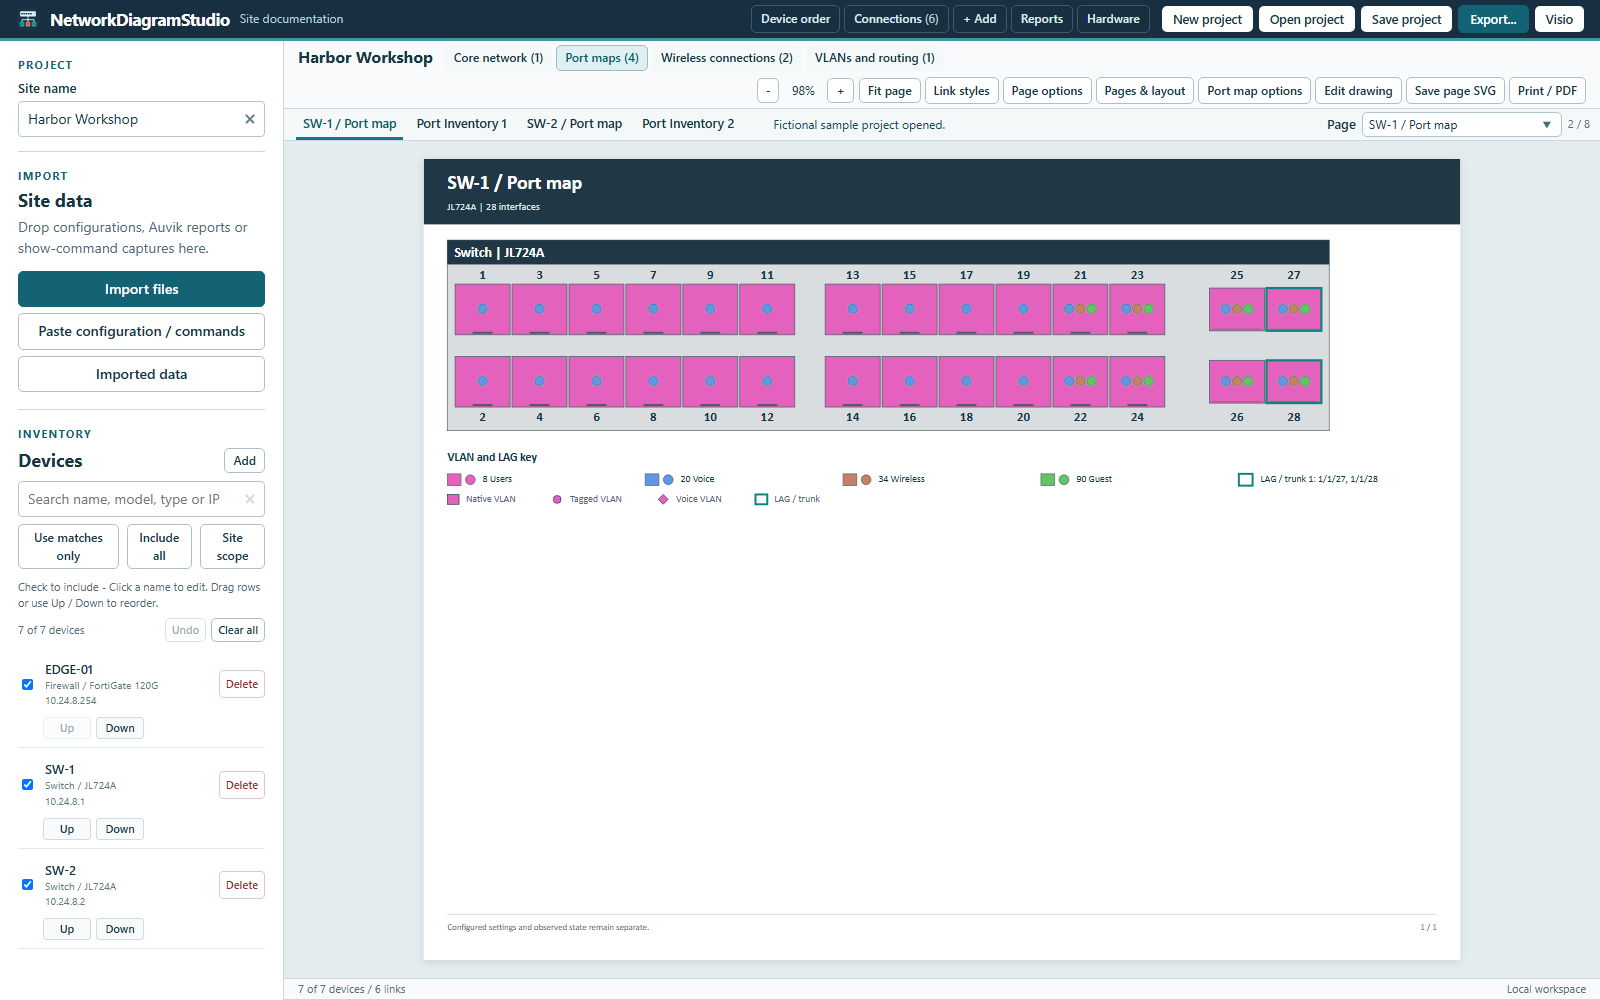
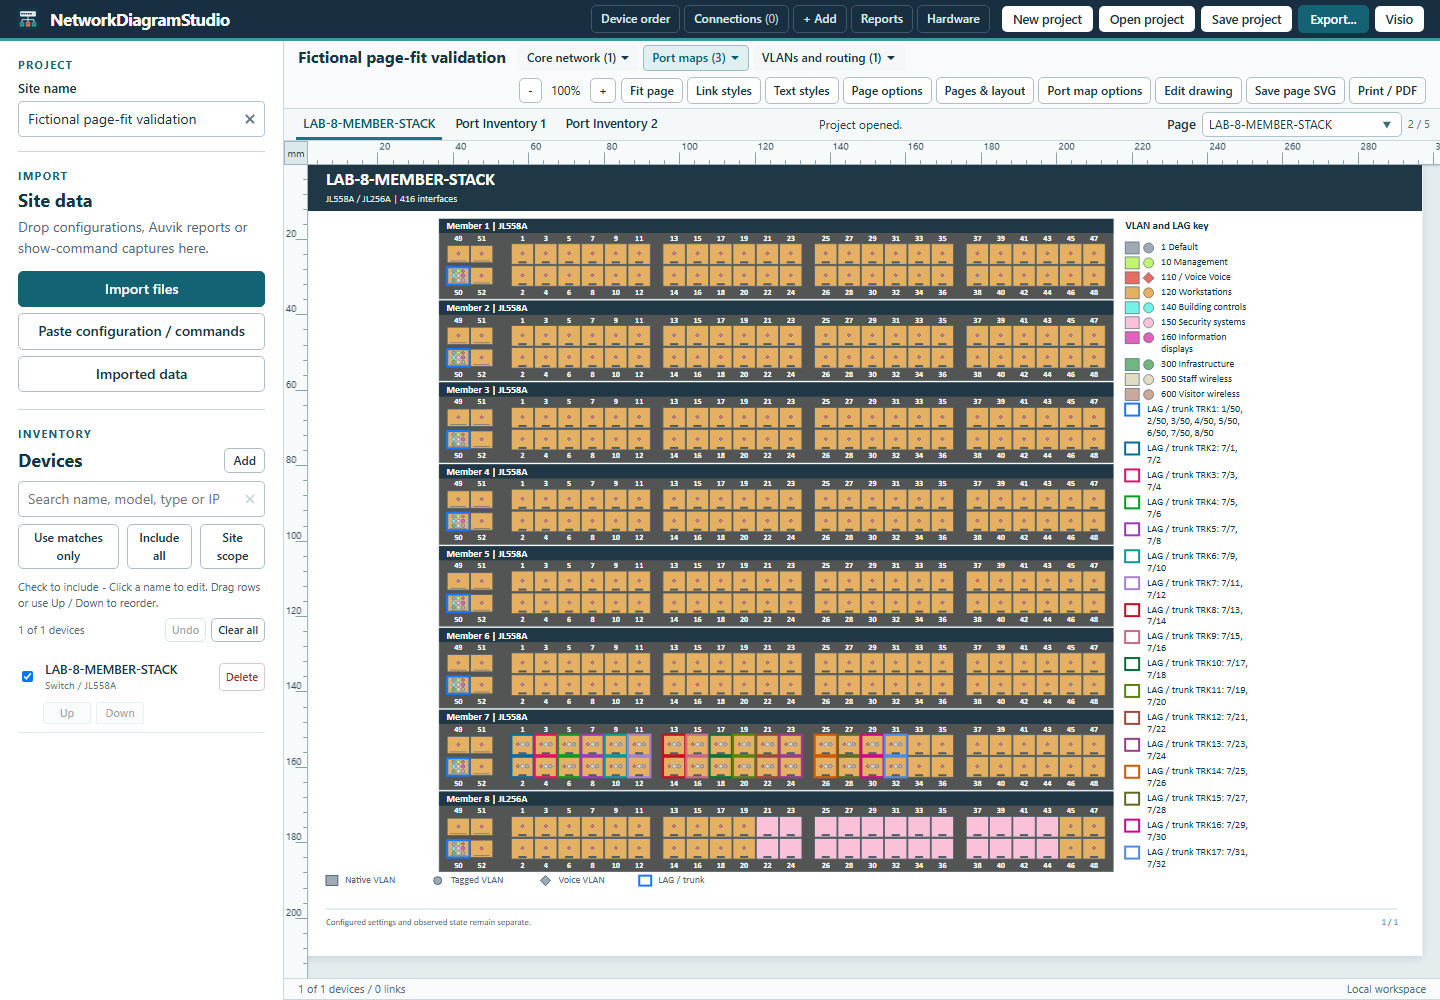
Fix adaptive paper-aware port maps for preview.41

diff --git a/DEVELOPMENT_HANDOFF.md b/DEVELOPMENT_HANDOFF.md
@@ -1,3 +1,13 @@
+# Preview.41: measured paper-aware port-map reflow
+
+Requested correction: use the measured layout approach of Switchport Diagram Builder rather than shrinking a forced horizontal member arrangement. src/web/reports/adaptive-port-map.mjs compares complete ordered banks, bounded number/heading styles and side/below key positions on the selected physical paper. It maximizes shared socket width, favors readable type near a size tie and retains all VLAN memberships, ports and member order. Chassis module pairs are never rewrapped as independent members. Standalone native and browser Switchport Reports retain their existing behavior.
+
+portMapSheets resolves actual final page names, including repeated workspace names, before applying individual/group/default visible-paper settings. Dynamic pages, Preserve existing layout and independent print paper retain their previous semantics. The adaptive scene uses exact 96-dpi paper geometry and fitVisiblePage must not add another shrink-to-fit margin. Its original report role/name and member/socket edit keys remain stable. Explicit edits are applied after the same deterministic base layout on every rebuild; the first moved item must not revert the rest of the page to the legacy layout.
+
+Regression coverage: tests/adaptive-port-map.test.mjs and tests/fixtures/adaptive-port-maps.mjs cover five/eight-member stacks, all 260/416 ports, A4/Letter portrait/landscape, other presets, member order, one complete key, actual physical dimensions, per-page precedence, save/reopen, independent print paper and first-edit stability. tests/browser-adaptive-port-map.mjs exercises the built offline editor's real page controls, Undo/redo and synthetic captures. The reusable validation workflow includes that browser test. The old landscape test now asserts measured single-column placement for its fixture instead of hard-coding the faulty two-column result.
+
+Local Chromium navigation is blocked by the environment's administrator policy for both file and loopback HTTP URLs. Do not claim a local interactive browser pass. The built offline HTML passed actual local DOM-loaded Chromium checks for A4/Letter reflow and Undo/redo. This does not test file navigation; hosted Edge must cover that boundary. The README image is captured from the actual synthetic editor fixture on the Windows candidate-preparation runner. The Windows-hosted Edge, native exports, updater, rollback and timer gates must pass on the exact final head, and the merged-main release plus all three public assets must be verified before announcing availability. Local validation: 435 JavaScript checks, seven Python checks and nine independent Visio packages passed before the final semantic edit-key regression was added. No supplied customer files or derived customer captures may enter the repository.
+
 # Preview.40: compact inventory, editing, label placement and configurable sidebar
 
 The main Text styles toolbar button opens project-wide defaults for ten text categories; src/web/global-text-styles.mjs validates per-category scale (40% to 250%), optional color, bold and alignment, while preserving explicit drawingEdits. The settings survive project save/open through cleanLayout and are applied to editor scene items before the final page fit and print/export step; physical switchport engine pages are kept at their verified native geometry. tests/global-text-styles.test.mjs covers category detection, validation and edit precedence.

diff --git a/README.md b/README.md
@@ -13,7 +13,7 @@ Network engineers can use the Windows application or the offline browser edition
 - Open existing Switchport Diagram Builder workspaces and supported unencrypted RouterOS backups. Keep supplementary observations independently selectable and separate from configuration intent.
 - Navigate large drawing sets using scrollable page tabs and group dropdowns that dismiss on outside clicks or Escape. Moving equipment keeps the sidebar clear and reroutes affected cables with measured clearance.
 - Use **Organize connections** in Edit drawing to compare compact layouts, or tick **Even line spacing** to give every parallel cable on the page one consistent spacing. Review connection length, bends, crossings and footprint, switch between Current and Proposed, then apply the result as one undoable action. Keep manual cable bends by default or allow them to be rerouted.
-- Keep up to eight switch-stack members on one Port Map sheet with one VLAN/LAG key. On landscape pages, arrange member faceplates in balanced columns when practical. **Page options** offers **Auto-fit and optimize content** or **Preserve existing layout** for the selected page proportions, with independent print paper.
+- Keep up to eight switch-stack members on one Port Map sheet with one VLAN/LAG key. On A4, Letter and other selected paper sizes, compare ordered member layouts and side/below legends to maximize readable hardware instead of forcing two columns. **Page options** offers **Auto-fit and optimize content** or **Preserve existing layout** for the selected page proportions, with independent print paper.
 - Port Inventory tables use compact readable type, smaller row spacing, and more of each printable page to reduce continuation pages. Interface identities, descriptions, tagged/native/voice VLANs, LAGs, link status and connected-device details remain intact and editable.
 - In Edit drawing, use right-click menus and **Snap label to line** for labels above, centered on or below their own cable. Specify the endpoint device/port, choose automatic alignment or manual rotation, and retain that placement when routing changes. Double-click page tabs to rename them and their printed titles.
 - Configure the diagram details sidebar: reorder and rename sections, show or hide VLANs, LAGs, AP/VSF/uplink information, summarize or expand port-module assignments, and add custom sections while preserving complete address/MAC information.
@@ -50,7 +50,7 @@ Network engineers can use the Windows application or the offline browser edition
 <p align="center"><img src="docs/images/legend-connections.png" width="900" alt="Connection-key properties with integrated cable settings, live line preview and clear buttons"></p>
 
 **Document each switch with VLAN-marked faceplates, trunks and a port inventory.**
-<p align="center"><img src="docs/images/port-map.png" width="900" alt="Fictional Harbor Workshop port map with native VLAN fills, tagged VLAN dots, LAG outlines and the VLAN key"></p>
+<p align="center"><img src="docs/images/port-map.png" width="900" alt="Actual generated A4 port map of a fictional eight-member stack, with readable ports and a side VLAN/LAG key"></p>
 
 **Review connection improvements before applying one undoable layout change.**
 <p align="center"><img src="docs/images/organize-connections.png" width="1000" alt="Organization preview with current and proposed cable length, bends, crossings and drawing footprint"></p>

diff --git a/AGENTS.md b/AGENTS.md
@@ -181,3 +181,7 @@ Browser stroke-pixel checks subtract a same-geometry reference with only the str
 Vector PDF uses the separate scene renderer in report-export.mjs, not the SVG serializer. Keep hop clearance as unpainted cable-only exclusion clips in that path too. Intersect separate exclusions so overlaps cannot reopen the cable; overlap the bounded convex pieces used for tight or flat curves to avoid antialias seams. Compare clearance pixels with untouched fill/stroke samples from the same PDF so existing color quantization is not mistaken for a transparency defect. Retain vector artwork, curve strokes, negative origins, hidden-owner behavior and per-item graphics state.
 
 Do not persist an unchanged generated color-key object name when its cable type changes. Let the new type regenerate that label, while preserving deliberate custom names and every other drawing edit.
+
+## Adaptive port-map paper fitting
+
+For an explicit visible paper in Auto-fit mode, evaluate measured side/below legends and ordered complete banks before scaling. Landscape alone must not force two stack columns. Keep socket aspect ratios, all marker memberships, readable number bands and one complete key; prefer the largest shared socket size with readable text at near ties. Chassis slots retain their physical pairs. Use actual final workspace page names for individual overrides. Exact paper-planned scenes bypass a second whole-page fit margin. Regenerate the same adaptive base after an edit, then apply stable-key overrides; never reset untouched members on the first move. Preserve mode, dynamic canvases, independent print paper and standalone native report behavior stay separate. Require the built-editor adaptive-port-map browser gate and synthetic physical-size/order/data checks.

diff --git a/docs/releases/0.1.0-preview.41.md b/docs/releases/0.1.0-preview.41.md
@@ -1,0 +1,14 @@
+# NetworkDiagramStudio 0.1.0-preview.41
+
+## Port maps that fit the selected page
+
+- Replaced the forced two-column landscape layout with a measured page-fit search based on Switchport Diagram Builder's approach.
+- A4, Letter and other visible page sizes compare ordered member layouts and legends beside or below the hardware, then use the largest readable shared socket size.
+- Five-member and eight-member stacks can retain their original vertical member order rather than being spread horizontally and shrunk.
+- Reserve space for headings, the complete VLAN/LAG key, port numbers and the footer before sizing the hardware. Avoid shrinking an already fitted page a second time.
+- Apply individual page overrides as well as page-group and drawing defaults. Keep independent print paper and Preserve existing layout behavior.
+- Preserve all physical interfaces, VLAN markers, LAG outlines, stable editing keys and saved object overrides. The first drawing edit keeps the accepted adaptive layout for the other objects.
+
+This change applies to builder-style Port Map sheets in the main drawing set. Standalone Switchport Reports and their native export engine are unchanged. Extremely dense content that cannot meet readable limits retains the existing logical-canvas fallback.
+
+Save open projects before updating. The portable application remains NetworkDiagramStudio.exe.
